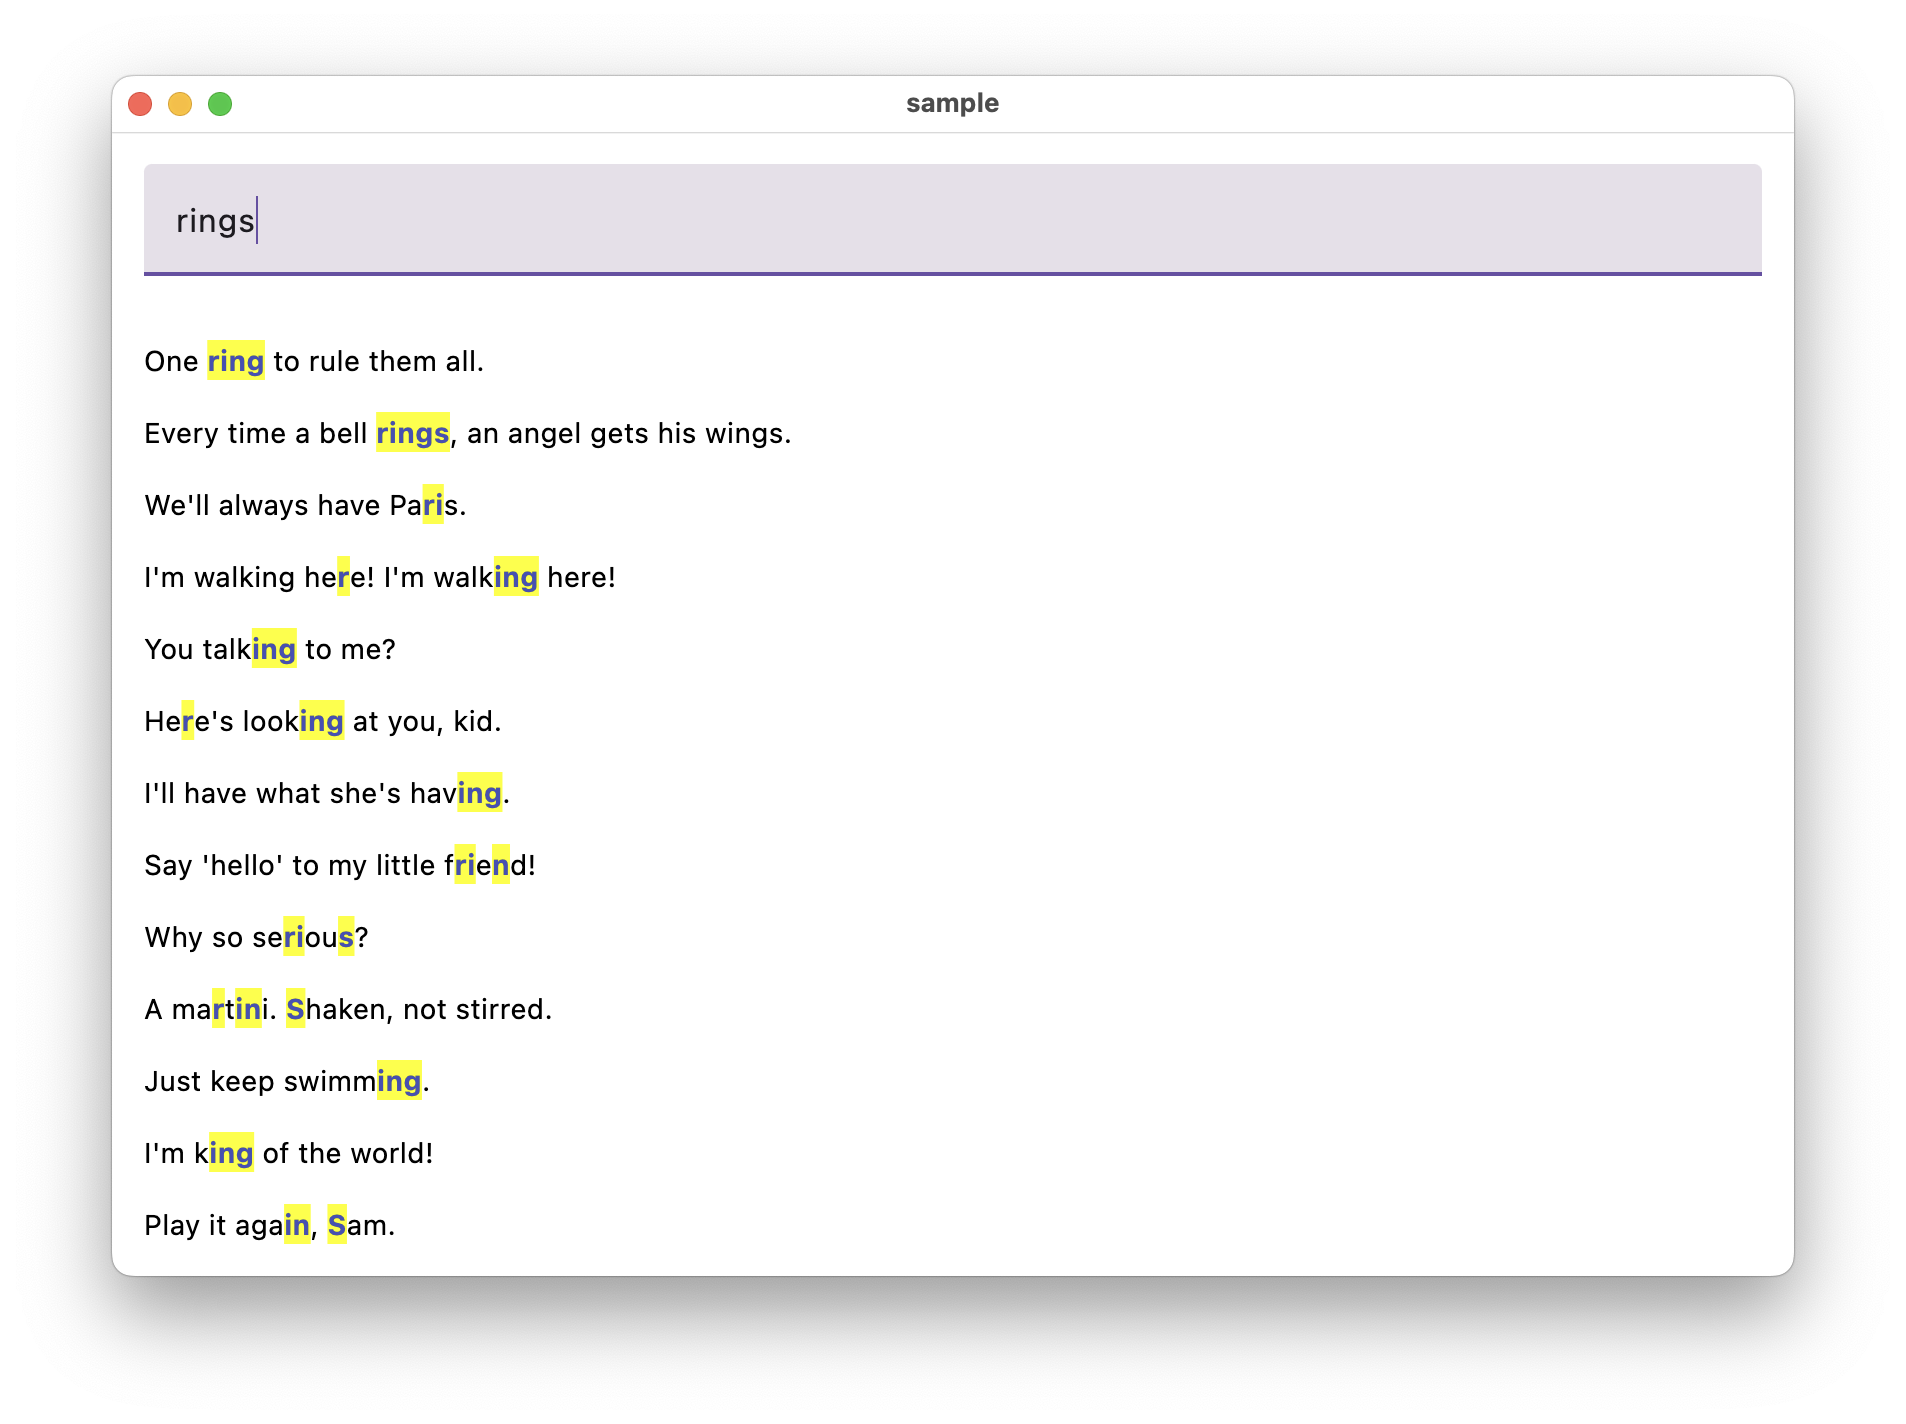
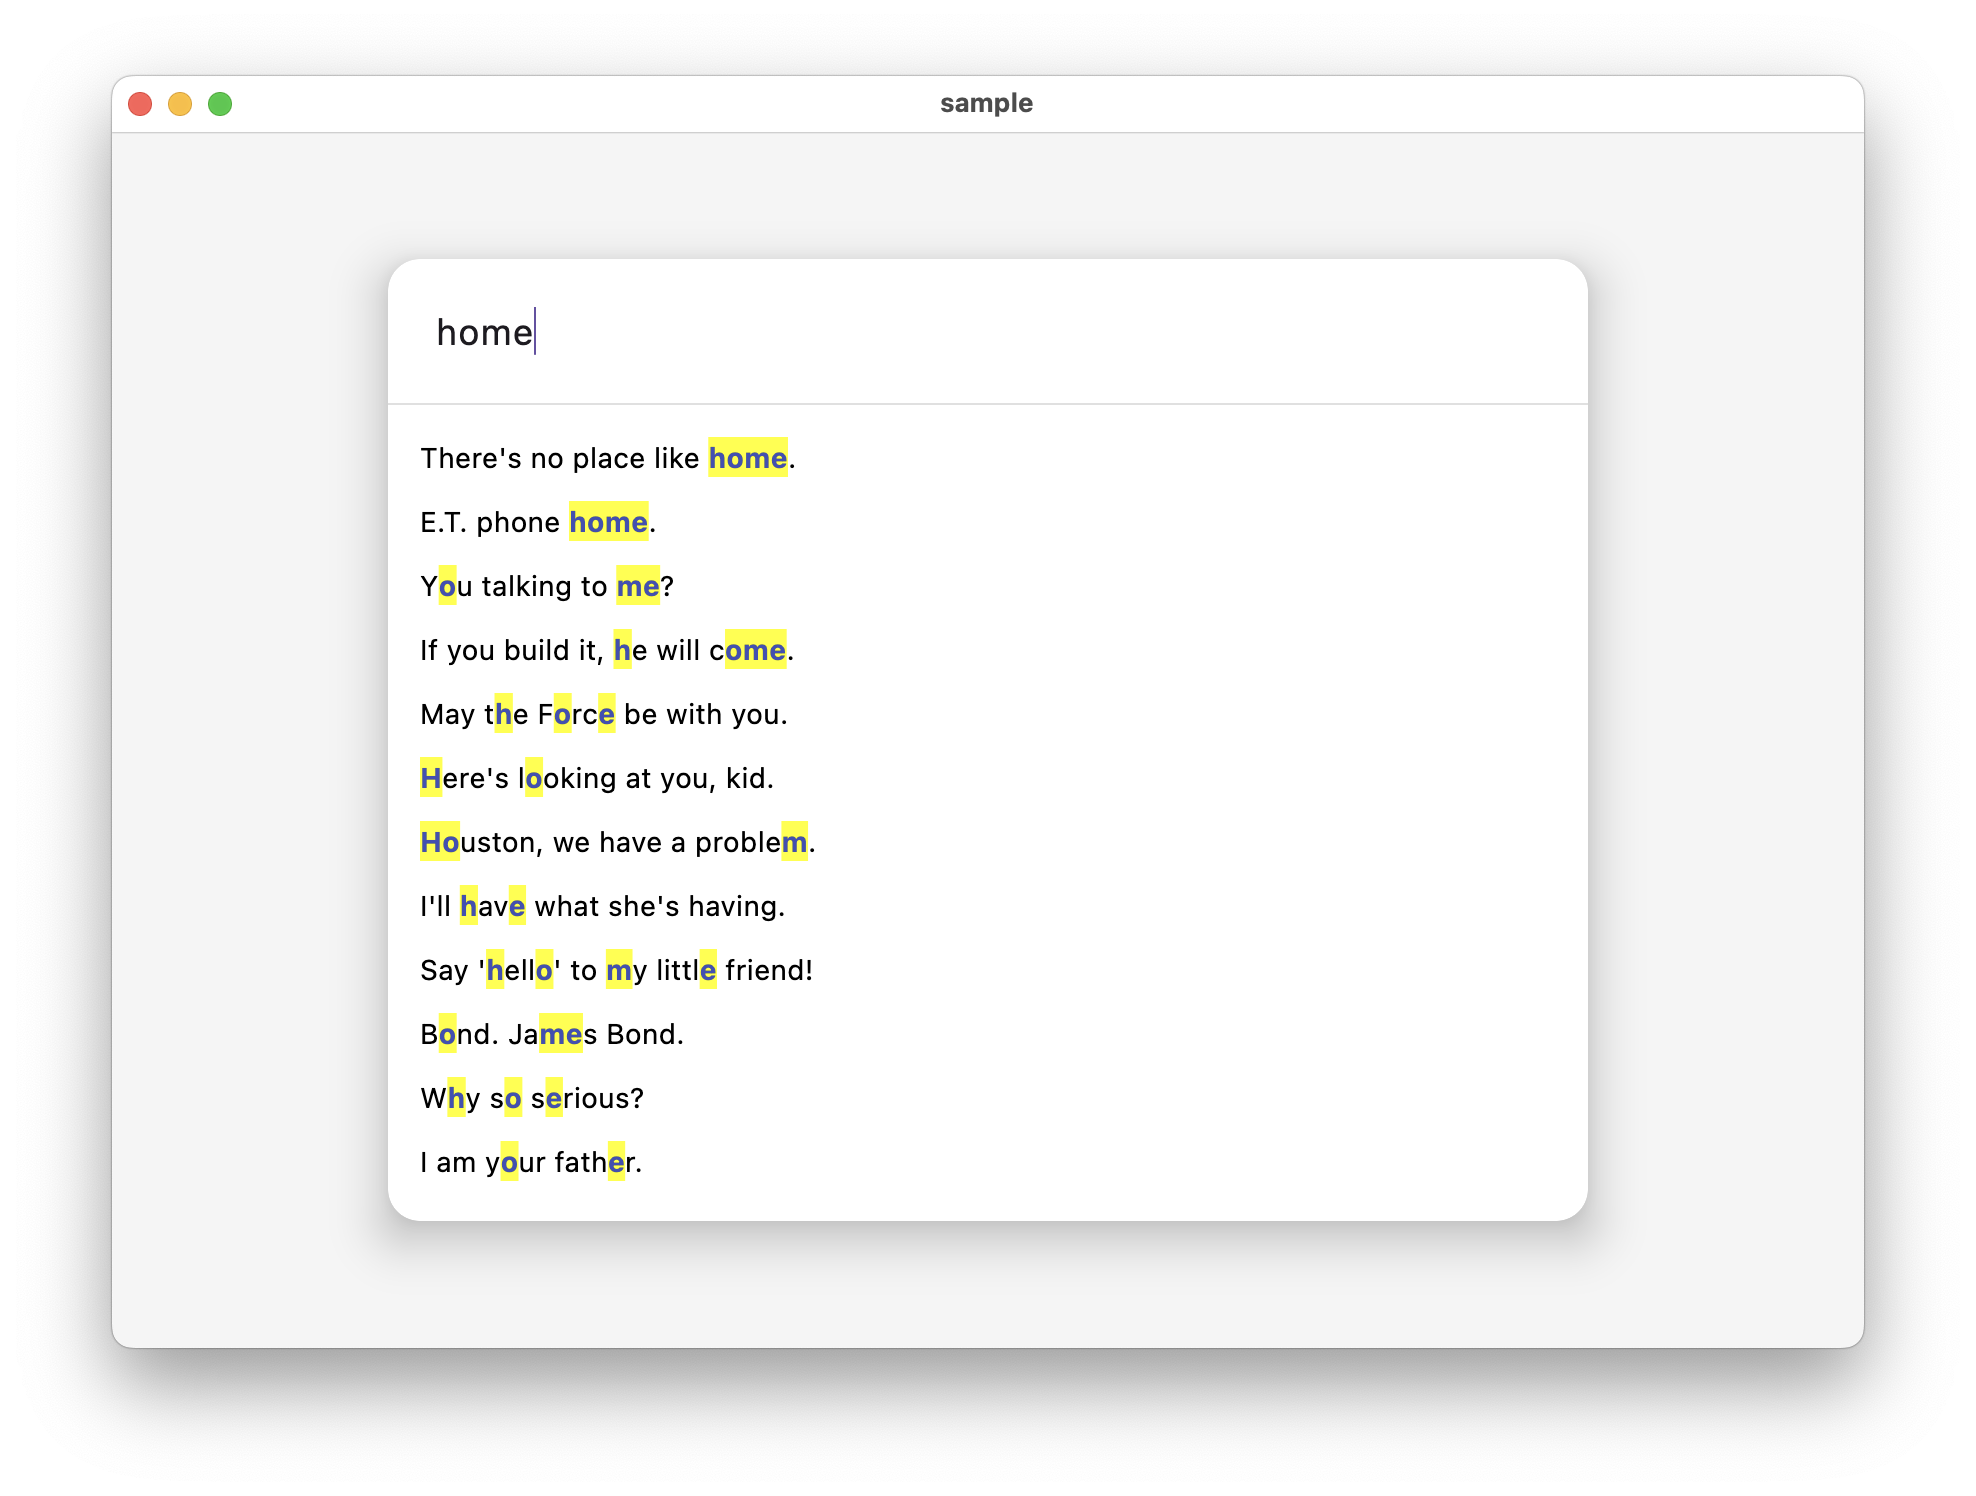
Redesign search UI with improved layout, shadow effects, and typography adjustments for better usability

diff --git a/sample/sharedUI/src/commonMain/kotlin/sample/app/App.kt b/sample/sharedUI/src/commonMain/kotlin/sample/app/App.kt
@@ -4,11 +4,12 @@ import androidx.compose.foundation.background
 import androidx.compose.foundation.layout.*
 import androidx.compose.foundation.lazy.LazyColumn
 import androidx.compose.foundation.lazy.items
-import androidx.compose.material3.MaterialTheme
-import androidx.compose.material3.Text
-import androidx.compose.material3.TextField
+import androidx.compose.foundation.shape.RoundedCornerShape
+import androidx.compose.material3.*
 import androidx.compose.runtime.*
+import androidx.compose.ui.Alignment
 import androidx.compose.ui.Modifier
+import androidx.compose.ui.draw.shadow
 import androidx.compose.ui.graphics.Color
 import androidx.compose.ui.text.AnnotatedString
 import androidx.compose.ui.text.SpanStyle
@@ -16,6 +17,7 @@ import androidx.compose.ui.text.buildAnnotatedString
 import androidx.compose.ui.text.font.FontWeight
 import androidx.compose.ui.text.withStyle
 import androidx.compose.ui.unit.dp
+import androidx.compose.ui.unit.sp
 import com.github.terrakok.fuzzykot.ExtractedResult
 import com.github.terrakok.fuzzykot.extractSorted
 import com.github.terrakok.fuzzykot.fuzzyMatchingRanges
@@ -141,31 +143,64 @@ fun App() {
     }
 
     MaterialTheme {
-        Column(
+        Box(
             modifier = Modifier
                 .fillMaxSize()
-                .background(Color.White)
-                .windowInsetsPadding(WindowInsets.systemBars)
+                .background(Color(0xFFF5F5F5))
+                .windowInsetsPadding(WindowInsets.systemBars),
+            contentAlignment = Alignment.Center
         ) {
-            TextField(
-                value = query,
-                onValueChange = { query = it },
+            Column(
                 modifier = Modifier
+                    .padding(horizontal = 16.dp)
+                    .widthIn(max = 600.dp)
                     .fillMaxWidth()
-                    .padding(16.dp),
-                placeholder = { Text("Search quotes...") },
-                singleLine = true
-            )
-
-            LazyColumn(
-                modifier = Modifier.fillMaxSize(),
-                contentPadding = PaddingValues(16.dp),
-                verticalArrangement = Arrangement.spacedBy(8.dp)
+                    .shadow(elevation = 16.dp, shape = RoundedCornerShape(16.dp))
+                    .background(Color.White, RoundedCornerShape(16.dp))
+                    .padding(vertical = 8.dp)
             ) {
-                items(results) { res ->
-                    Column {
-                        QuoteItem(res.string, query)
-                        Spacer(modifier = Modifier.height(8.dp))
+                TextField(
+                    value = query,
+                    onValueChange = { query = it },
+                    modifier = Modifier
+                        .fillMaxWidth()
+                        .padding(horizontal = 8.dp),
+                    placeholder = {
+                        Text(
+                            "Search quotes...",
+                            style = MaterialTheme.typography.bodyLarge.copy(color = Color.Gray)
+                        )
+                    },
+                    singleLine = true,
+                    colors = TextFieldDefaults.colors(
+                        focusedContainerColor = Color.Transparent,
+                        unfocusedContainerColor = Color.Transparent,
+                        disabledContainerColor = Color.Transparent,
+                        focusedIndicatorColor = Color.Transparent,
+                        unfocusedIndicatorColor = Color.Transparent,
+                    ),
+                    textStyle = MaterialTheme.typography.bodyLarge.copy(fontSize = 18.sp)
+                )
+
+                if (results.isNotEmpty()) {
+                    Spacer(modifier = Modifier.height(8.dp))
+                    Box(
+                        modifier = Modifier
+                            .fillMaxWidth()
+                            .height(1.dp)
+                            .background(Color(0xFFE0E0E0))
+                    )
+
+                    LazyColumn(
+                        modifier = Modifier
+                            .fillMaxWidth()
+                            .heightIn(max = 400.dp),
+                        contentPadding = PaddingValues(16.dp),
+                        verticalArrangement = Arrangement.spacedBy(12.dp)
+                    ) {
+                        items(results) { res ->
+                            QuoteItem(res.string, query)
+                        }
                     }
                 }
             }
